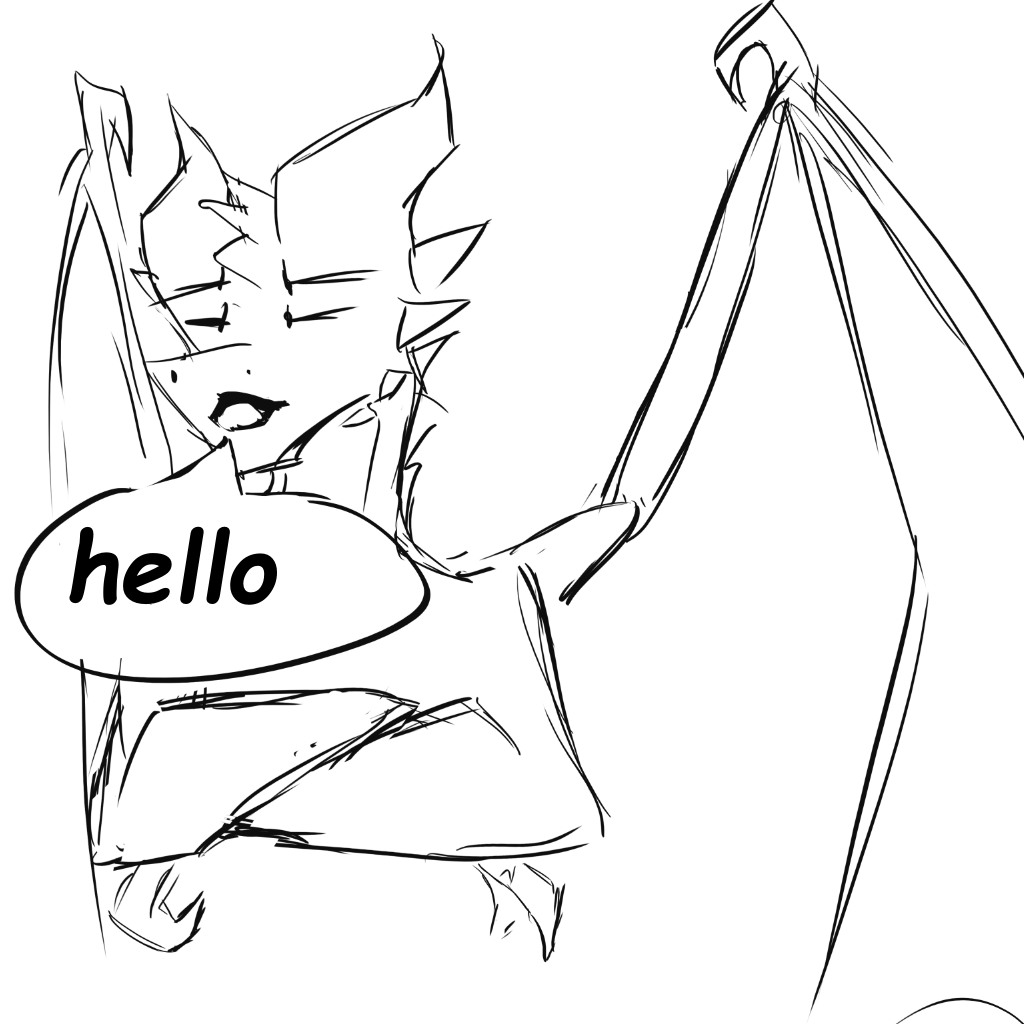
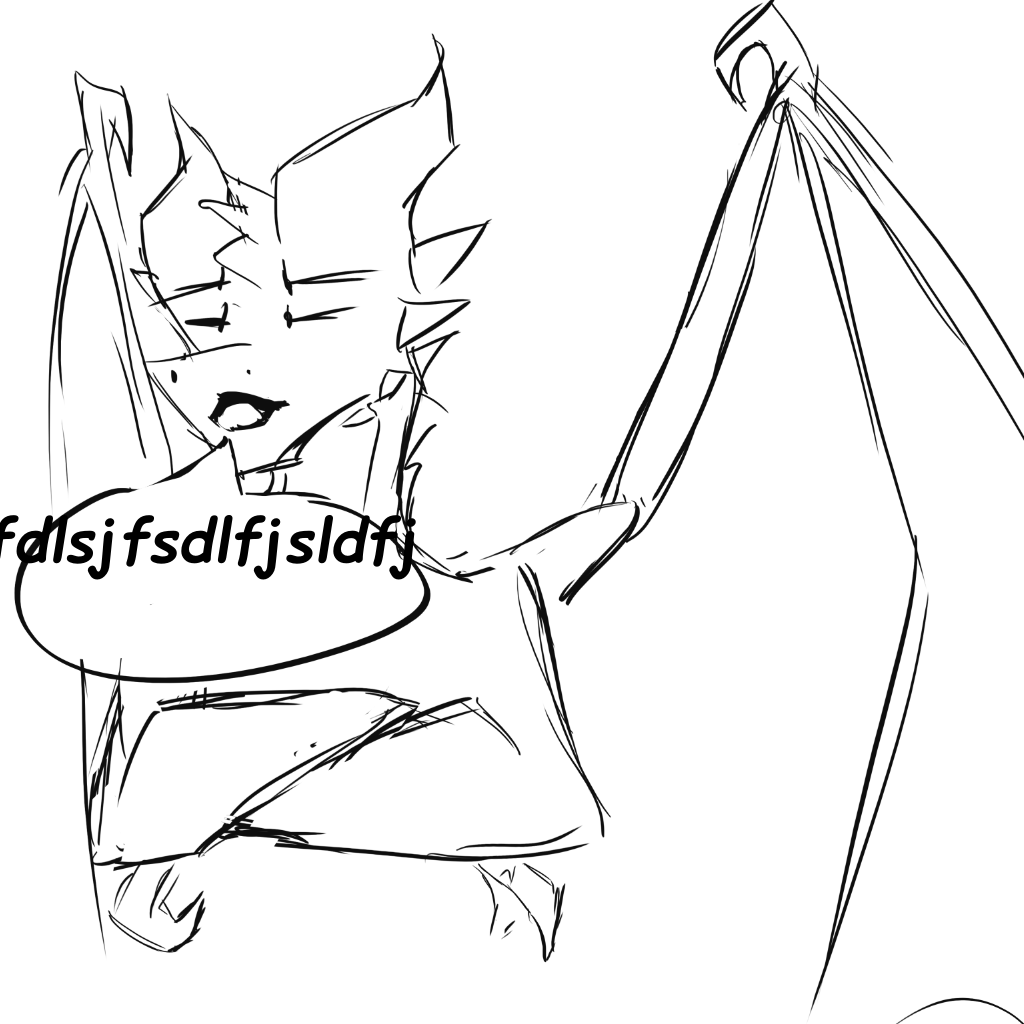
feat: `/dd`
Command dd is able to dynamically grow and shrink the text size

Changed region(s): [[0.0, 0.5, 0.4062, 0.5938]]

diff --git a/commands/dd/main.go b/commands/dd/main.go
@@ -36,22 +36,23 @@ func Handler(s *discordgo.Session, i *discordgo.InteractionCreate) {
 	if err != nil {
 		log.Fatalln(err)
 	}
-	const Size = 1024
-	ctx := gg.NewContext(Size, Size)
+	// CanvasSize := 1024
+	const CanvasSize = 1024
+	fontSize := 70
+	ctx := gg.NewContext(CanvasSize, CanvasSize)
 	ctx.SetRGB(1, 1, 1)
 	ctx.Clear()
 	ctx.SetRGB(0, 0, 0)
 
-	if err := ctx.LoadFontFace("./media/font/comic_sans/comicz.ttf", 96); err != nil {
+	fontSize = shrinkFontSize(fontSize, optionMap["text"].StringValue(), 7)
+	if err := ctx.LoadFontFace("./media/font/comic_sans/comicz.ttf", float64(fontSize)); err != nil {
 		log.Fatalln(err)
 	}
 
-	// NOTE: idk why this is necessary
-	// ctx.DrawStringAnchored(optionMap["text"].StringValue(), Size/6, Size/6, 0.50, 0.10)
 	ctx.DrawRoundedRectangle(0, 0, 512, 512, 0)
 	ctx.DrawImage(img, 0, 0)
-	// TODO: change values here to put the text where it should be
-	ctx.DrawStringAnchored(optionMap["text"].StringValue(), Size/6, Size/6, 0.50, 6.0)
+
+	ctx.DrawStringAnchored(optionMap["text"].StringValue(), float64(CanvasSize/2), float64(CanvasSize/2), 1.20, 1.1)
 	ctx.Clip()
 	ctx.SavePNG("out.png")
 
@@ -61,10 +62,7 @@ func Handler(s *discordgo.Session, i *discordgo.InteractionCreate) {
 		log.Fatalln(err)
 	}
 
-	// outImg, outImageType, err := image.Decode(out)
-
-	// dg.ChannelFileSend(i.ChannelID, "out.png", out)
-	s.InteractionRespond(i.Interaction, &discordgo.InteractionResponse{
+	err = s.InteractionRespond(i.Interaction, &discordgo.InteractionResponse{
 		Type: discordgo.InteractionResponseChannelMessageWithSource,
 		Data: &discordgo.InteractionResponseData{
 			Files: []*discordgo.File{
@@ -76,13 +74,17 @@ func Handler(s *discordgo.Session, i *discordgo.InteractionCreate) {
 			},
 		},
 	})
+	if err != nil {
+		log.Fatalln(err)
+	}
+}
 
-	// s.InteractionRespond(i.Interaction, &discordgo.InteractionResponse{
-	// Type: discordgo.InteractionResponseChannelMessageWithSource,
-	// Data: &discordgo.InteractionResponseData{
-	// Content: "Here is your dragon!",
-	// Flags:   discordgo.MessageFlagsEphemeral,
-	// },
-	// },
-	// )
+// shrinkFontSize shrink the font size passed in based on the length of user input and the maxCharacterSize
+// Returns the new font size
+func shrinkFontSize(fontSize int, userInput string, maxCharacterSize int) int {
+	// 7 is the max character at current size
+	if len(userInput) > maxCharacterSize {
+		return shrinkFontSize(fontSize-5, userInput, maxCharacterSize+5)
+	}
+	return fontSize
 }

diff --git a/main.go b/main.go
@@ -30,12 +30,6 @@ type config struct {
 	} `json:"carmenRambles"`
 }
 
-// Bot parameters
-// var (
-// GuildID        = flag.String("guild", "", "Test guild ID. If not passed - bot registers commands globally")
-// BotToken       = flag.String("token", "", "Bot access token")
-// RemoveCommands = flag.Bool("rmcmd", true, "Remove all commands after shutdowning or not")
-// )
 var c config
 
 var dg *discordgo.Session
@@ -110,7 +104,10 @@ func main() {
 	<-stop
 
 	// TODO: commands are not being deleted in my own server
-	utils.RemoveCommands(dg, registeredCommands)
+	// only remove commands in production
+	if !c.Development {
+		utils.RemoveCommands(dg, registeredCommands)
+	}
 
 	log.Println("Gracefully shutting down.")
 }
